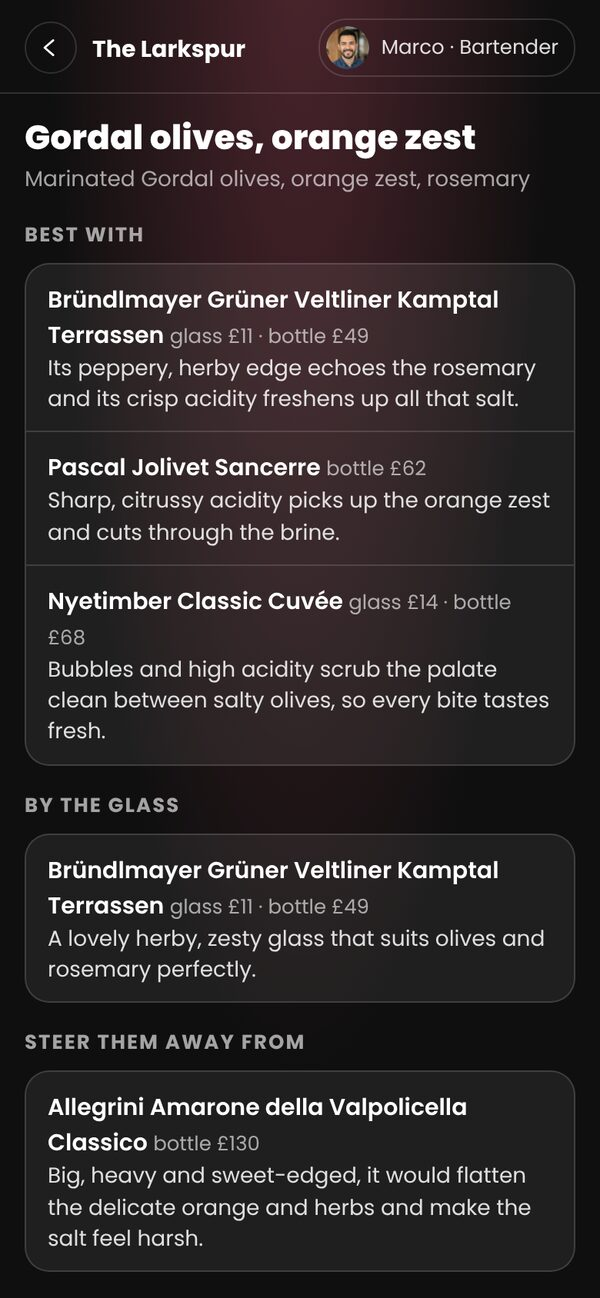
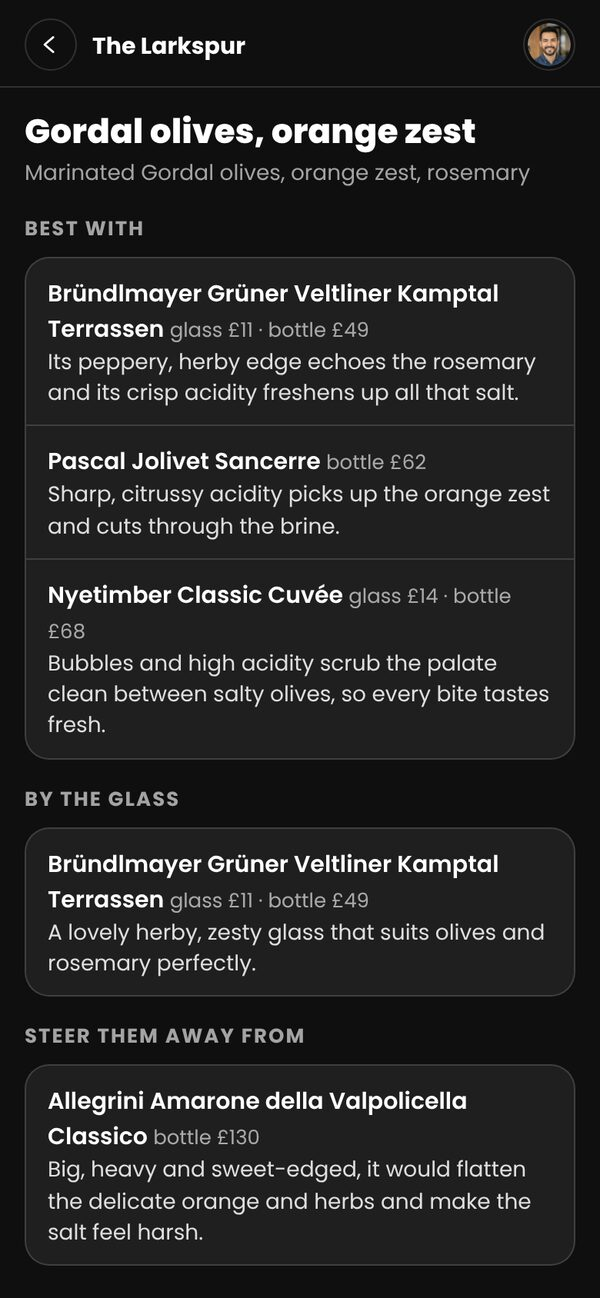
Teams website: phone screens recaptured with the face-only header
Every still and every frame of the hero clip retaken from the app with the restaurant's name in
full; the clip's header cut follows the header's new height (57px).

Claude-Session: https://claude.ai/code/session_015nNkSEFdLmW5jGpkcb29cj

diff --git a/site/teams/index.html b/site/teams/index.html
@@ -562,7 +562,7 @@ new IntersectionObserver((es) => es.forEach((e) => { inView = e.isIntersecting; 
 play(cur);
 
 // The phone in the hero: a bartender's Today, the drill answered, a card read through, on a loop.
-const PW = 390, PH = 844, PHEAD = 61, PTAB = 58, pstage = document.getElementById('pstage');
+const PW = 390, PH = 844, PHEAD = 57, PTAB = 58, pstage = document.getElementById('pstage');
 if (pstage) {
   const ph = player(pstage, PW, PH, 'img/phone/', 'touch');
   const head = (img) => [{ img, x: 0, y: 0, w: PW, h: PHEAD }], tabbar = [{ img: 'tabbar', x: 0, y: PH - PTAB, w: PW, h: PTAB }];
